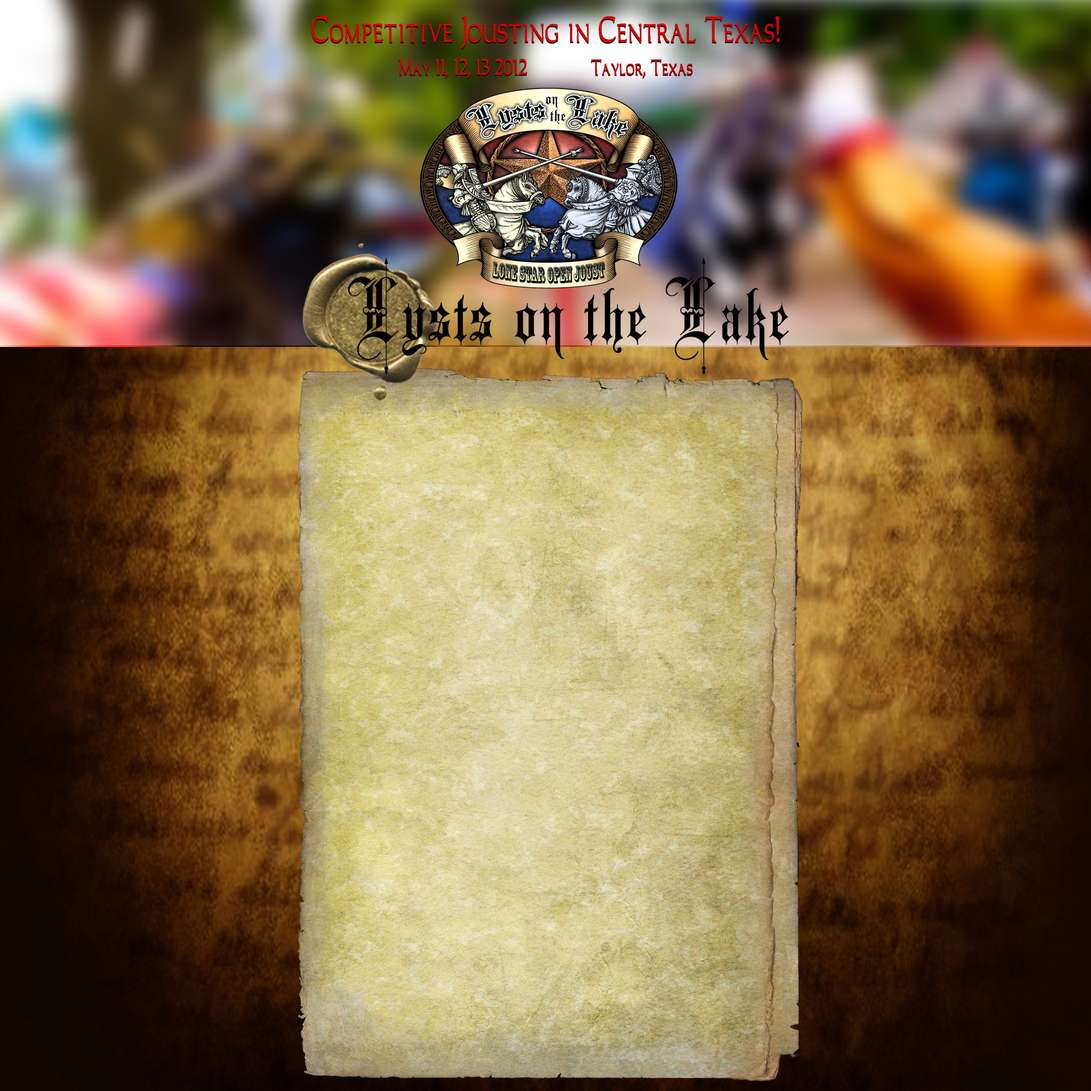
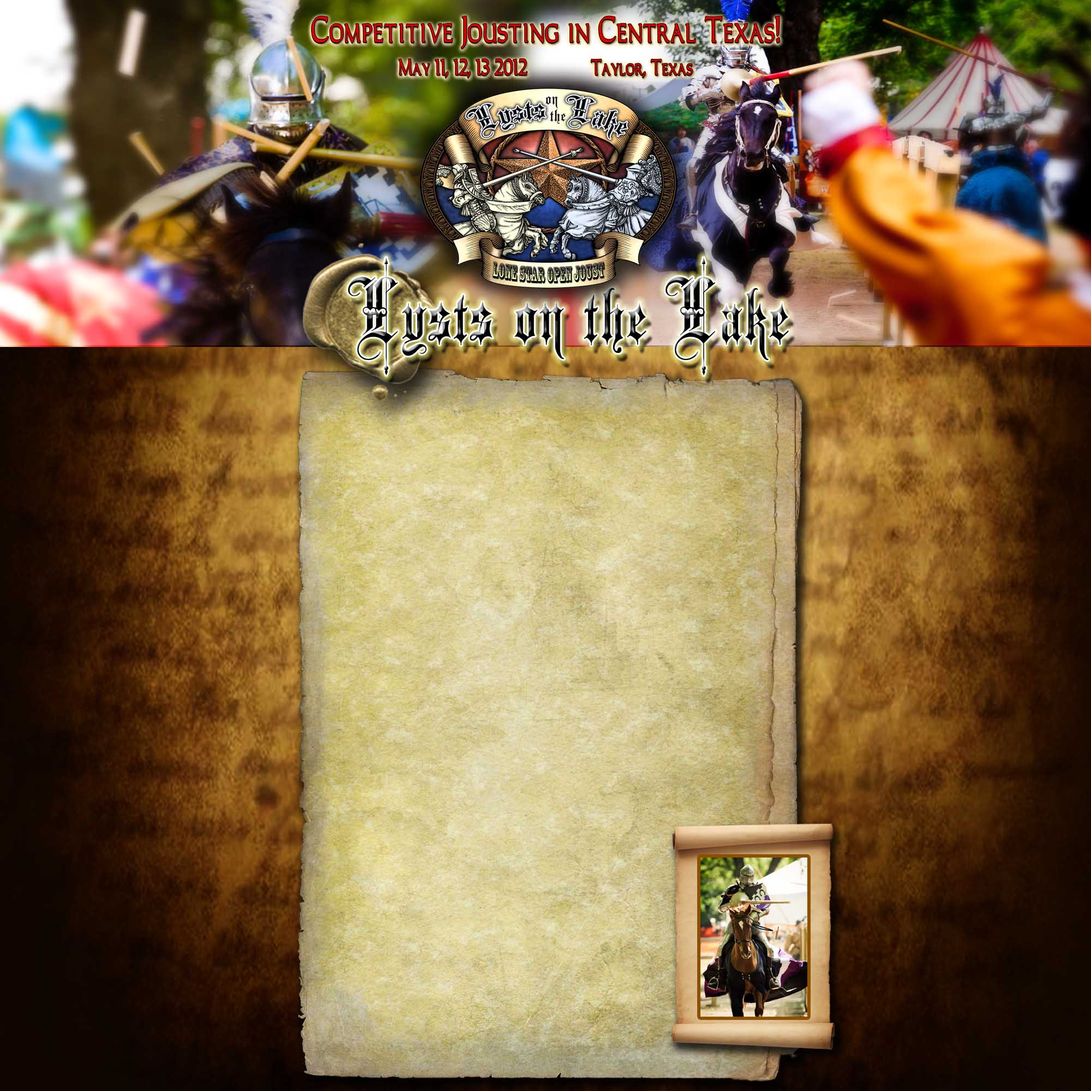
Coding with rum is win.  ...I changed some stuff.

diff --git a/css/structure.css b/css/structure.css
@@ -1,13 +1,27 @@
 .home-body {
-    background: url("../img/template/bg/homeBG1.jpg") no-repeat scroll center top transparent;
+    background: url("../img/template/bg/homeBG.jpg") no-repeat scroll center top transparent;
     font-family: trebuchet,arial,sans-serif;
     font-size: 14pt;
     text-align: center;
 }
+
+.other-page-body {
+    background: url("../img/template/bg/otherPageBG.jpg") no-repeat scroll center top transparent;
+    font-family: trebuchet,arial,sans-serif;
+    font-size: 14pt;
+    text-align: center;
+}
+
 .home-content-pane {
     position: relative;
     width: 860px;
     margin: 785px auto 0;
+}
+
+.other-pane-text {
+    position: relative;
+    width: 860px;
+    margin: 105px auto 0;
 }
 
 .aPlaisanceLogo {

diff --git a/homeMock.php b/homeMock.php
@@ -4,6 +4,9 @@
         <link rel="stylesheet" href="css/structure.css"/>
         <link rel="stylesheet" href="css/textStyles.css"/>
         <link rel="stylesheet" href="css/nav.css"/>
+        <script type="text/javascript" src="js/jquery-1.2.6.min.js"></script>
+        <script type="text/javascript" src="js/fadeslideshow.js"></script>
+        <script type="text/javascript" src="js/slideshow.js"></script>
     </head>
 
     <body class="home-body">
@@ -25,8 +28,7 @@
                 <div style="text-align: center;">
                     <iframe width="640" height="360" src="http://www.youtube.com/embed/UYhdz1bPTAE" frameborder="0" allowfullscreen></iframe>
                 </div>
-                <div class="floating-slideshow">
-                    <img src="img/newSlideshow/BE3E9631.jpg"/>
+                <div class="floating-slideshow" id="homeSlideshow">
                 </div>
                 <p>You will not have a more exciting, intense sporting experience anywhere else this year!
 

diff --git a/otherPageMock.php b/otherPageMock.php
@@ -1,10 +1,13 @@
 <html>
     <head>
         <title>Lysts on the Lake 2012 - Other pages</title>
+        <link rel="stylesheet" href="css/structure.css"/>
+        <link rel="stylesheet" href="css/textStyles.css"/>
+        <link rel="stylesheet" href="css/nav.css"/>
     </head>
-    <body style="background-image: url('Master/pieces/OtherPageBG.jpg'); background-position: top center; background-repeat: no-repeat;">
-        <div style="position:absolute; top:0px; left: 0px; height: 2000px;">
-            <img src="Master/pieces/menu/social/fb.png" style="position:absolute; top:230px; left: 600px;"/>
+    <body class="other-page-body">
+        <div class="other-page-text">
+            <p>wokka wokka
         </div>
     </body>
 </html>
